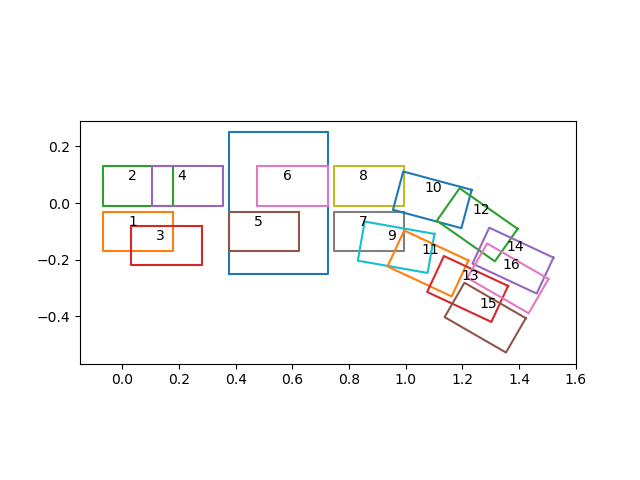
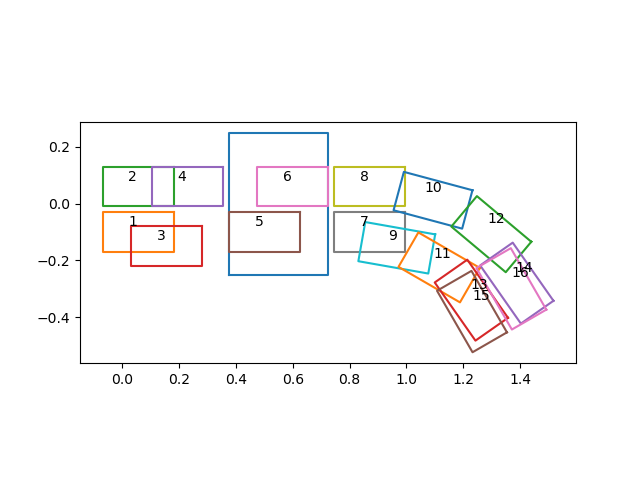
更合理的规划落脚点

diff --git a/readsteps.cpp b/readsteps.cpp
@@ -1,0 +1,76 @@
+/*
+ * @description: 
+ * @param : 
+ * @return: 
+ */
+#include <fstream>
+#include <iostream>
+#include <Eigen/Core>
+#include <vector>
+using namespace std;
+
+struct step_foot
+{
+  Eigen::Vector3f position;
+  float yaw;
+  bool is_left;
+  step_foot(){}
+  step_foot(Eigen::Vector3f & p, float yaw_, bool is_left_)
+  {
+    position = p; yaw = yaw_; is_left = is_left_;
+  }
+};
+
+int main(int argc, char** argv)
+{
+  ifstream ifile;
+  ifile.open("/home/humanoid/turn_right_planner/planner_test/steps.txt");
+  if (ifile.bad())
+  {
+    cout<<"error open file"<<endl;
+  }
+  int index = 1;
+  vector<step_foot> steps;
+  step_foot tmpstep;
+  while (!ifile.eof())
+  {
+    switch (index%5)
+    {
+    case 1:
+      ifile >> tmpstep.is_left;
+      index++;
+      break;
+    
+    case 2:
+      ifile >> tmpstep.position.x();
+      index++;
+      break;
+
+    case 3:
+      ifile >> tmpstep.position.y();
+      index++;
+      break;
+    case 4:
+      ifile >> tmpstep.position.z();
+      index++;
+      break;
+
+    case 0:
+      ifile >> tmpstep.yaw;
+      index++;
+      steps.emplace_back(tmpstep);
+      break;
+
+    default:
+      break;
+    }
+  }
+
+  for (auto & step : steps)
+  {
+    cout<<step.is_left<<" "<<step.position.transpose()<<" "<<step.yaw<<endl;
+  }
+  
+  
+  return 0;
+}

diff --git a/main.cpp b/main.cpp
@@ -16,6 +16,7 @@
 #include <Eigen/Geometry>
 #include <iostream>
 #include <vector>
+#include <fstream>
 #include <array>
 using namespace std;
 namespace plt = matplotlibcpp;
@@ -225,7 +226,7 @@ int main(int argc, char** argv)
   // 假设终点
   float x = 1.3;
   float y = - 0.3;
-  float theta =  - 80/57.3;
+  float theta =  - 60/57.3;
   // 第一组参数
   // float x = 1.4;
   // float y = - 0.28;
@@ -282,7 +283,14 @@ int main(int argc, char** argv)
     tmpstep.yaw = step.yaw + pyaw;
     result_steps.emplace_back(tmpstep);
   }
-
+  ofstream ofile;
+  ofile.open("/home/humanoid/turn_right_planner/planner_test/steps.txt");
+  for (auto & tmpstep : result_steps)
+  {
+    ofile<<tmpstep.is_left<<" "<<tmpstep.position.x()<<" "<<tmpstep.position.y()<<" "<<tmpstep.position.z()<<" "<<tmpstep.yaw<<endl;
+  }
+  // result_steps.pop_back();
+  // result_steps.pop_back();
   showSteps(result_steps);
   return 0;
 }
